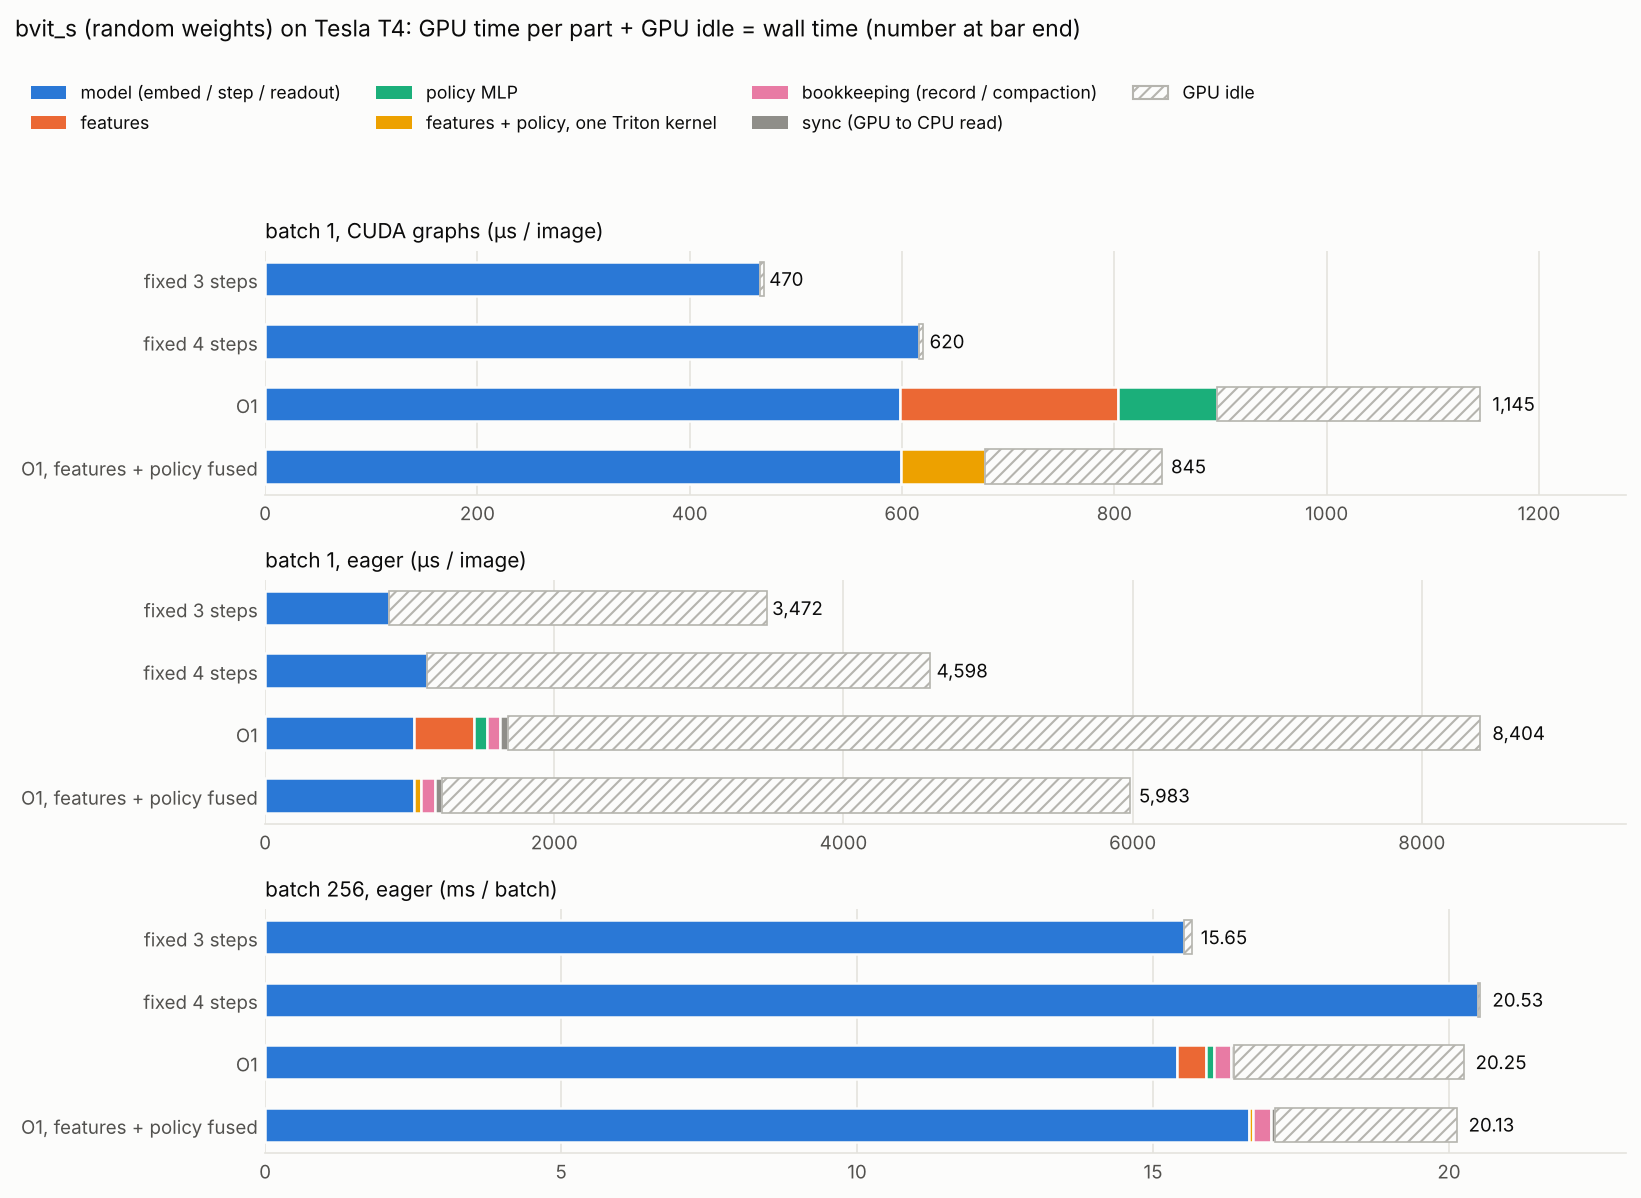
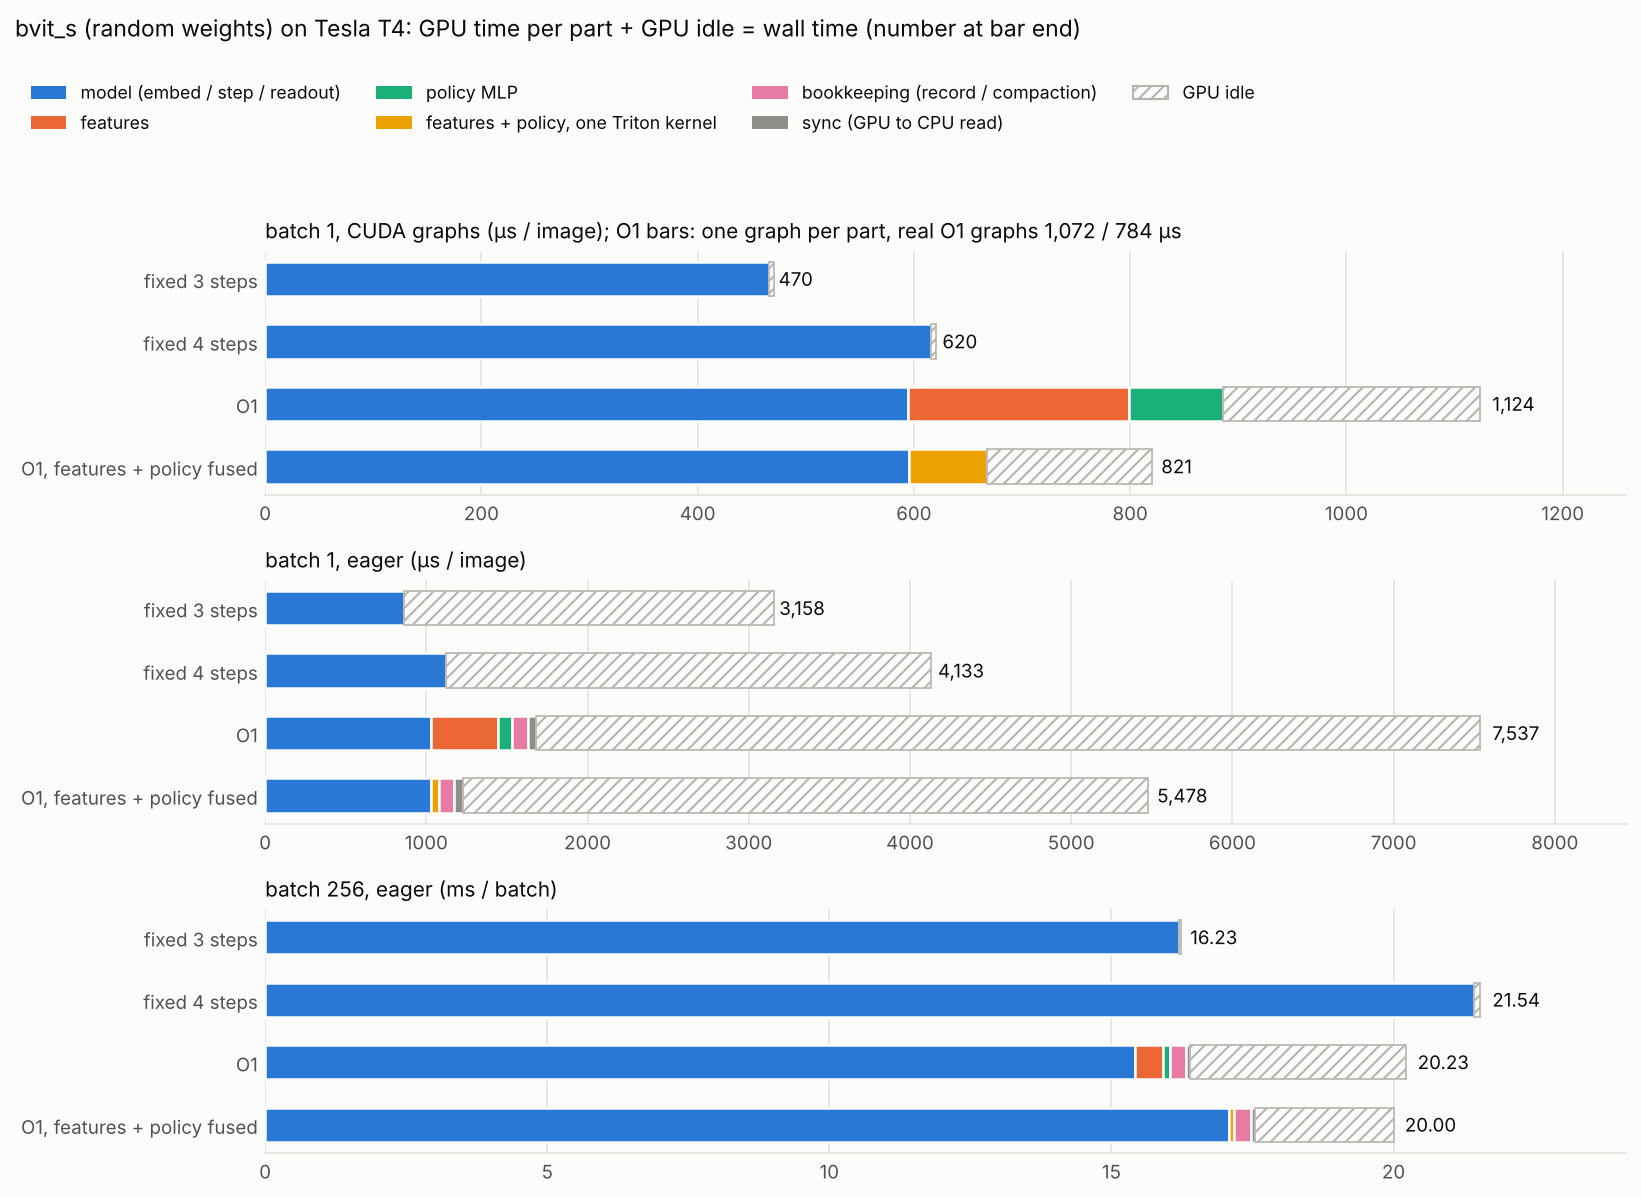
Archive T4 fused-kernel results with timeline and breakdown charts
Claude-Session: https://claude.ai/code/session_012d5R3vQkjtxGyJD4XjmzQS

diff --git a/scripts/plot_timeline.py b/scripts/plot_timeline.py
@@ -148,6 +148,10 @@ def plot_breakdown(res: dict, out: Path):
             ax.text(max(x + idle, x) + wall * scale * 0.01, y, f"{wall * scale:,.{2 if scale < 1 else 0}f}",
                     va="center", fontsize=9, color=INK)
         ax.set_yticks(ys, labels)
+        if panel == "graph-bs1":  # the O1 bars come from one graph per part (a few extra launches)
+            real = [res["modes"][k]["reference_wall_us"]["o1_one_graph_per_step"] for k in
+                    ("graph-bs1/O1", "graph-bs1/O1-fused") if k in res["modes"]]
+            title += "; O1 bars: one graph per part, real O1 graphs " + " / ".join(f"{v:,.0f}" for v in real) + " µs"
         ax.set_title(title + ("  - bars scaled to wall where the profiled GPU time exceeded it (clock drift)"
                               if scaled else ""), loc="left", fontsize=10, color=INK)
         ax.set_xlim(0, max(b[1] for b in bars) * scale * 1.12)
